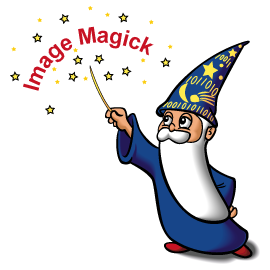
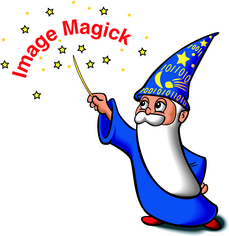
*** empty log message ***

diff --git a/ImageMagick.html b/ImageMagick.html
@@ -12,7 +12,7 @@
 <body bgcolor="#FFFFFF" text="#000000" link="#0085c0" vlink="#800080" alink="#0085c0" >
 <dl>
 <dd>
-<div align="Left"> <a href="www/archives.html"><img src="images/magick.png" alt="Image Magick" border="0" height="270" width="270" align="Right">
+<div align="Left"> <a href="www/archives.html"><img src="images/magick.png" alt="Image Magick" border="0" height="229" width="236" align="Right">
 </a> ImageMagick<sup><font size="-2">TM</font></sup> is a robust collection
 of tools and libraries to read, write, and manipulate an image in many image 
 <a href="www/formats.html">formats</a> (over 68 major formats) including

diff --git a/www/cvs.html b/www/cvs.html
@@ -10,7 +10,7 @@
 </head>
 <body bgcolor="#FFFFFF" text="#000000" link="#0085c0" vlink="#800080" alink="#0085c0" >
 
-<center><img SRC="../images/magick_small.png" alt="" height=133 width=129></center>
+<center><img SRC="../images/magick_small.png" alt="" height=118 width=114></center>
 
 <p>The ImageMagick source is available via anonymous CVS. This is a convenient
 way for developers from around the country or world to download the ImageMagick

diff --git a/www/cd.html b/www/cd.html
@@ -10,7 +10,7 @@
 </head>
 <body bgcolor="#FFFFFF" text="#000000" link="#0085c0" vlink="#800080" alink="#0085c0" >
 
-<center><img SRC="../images/magick_small.png" alt="" width=129 height=133></center>
+<center><img SRC="../images/magick_small.png" alt="" width=114 height=118></center>
 
 <p>ImageMagick, version 5.3.6, source and binary distribution is available
 for a limited time on CD. The CD includes everything that is found at the

diff --git a/www/archives.html b/www/archives.html
@@ -10,7 +10,7 @@
 </head>
 <body text="#000000" bgcolor="#FFFFFF" link="#0085C0" vlink="#800080" alink="#0085C0">
 
-<center><img SRC="../images/magick_small.png" ALT="" height=133 width=129></center>
+<center><img SRC="../images/magick_small.png" ALT="" height=118 width=114></center>
 
 <p>The source distribution of <b>ImageMagick</b> as well as pre-compiled
 binaries are available at any of the sites listed here (unless otherwise

diff --git a/www/color.html b/www/color.html
@@ -10,7 +10,7 @@
 </head>
 <body bgcolor="#FFFFFF" text="#000000" link="#0085c0" vlink="#800080" alink="#0085c0" >
 <center>
-<img src="../images/magick_small.png" alt="" align=bottom width=129 height=133>
+<img src="../images/magick_small.png" alt="" align=bottom width=114 height=118>
 </center>
 <p><hr><p>
 Here are some example color selections to choose from or define your own.

diff --git a/www/quantize.html b/www/quantize.html
@@ -10,7 +10,7 @@
 </head>
 <body bgcolor="#FFFFFF" text="#000000" link="#0085c0" vlink="#800080" alink="#0085c0" >
 
-<center><img SRC="../images/magick_small.png" alt="" width=129 height=133></center>
+<center><img SRC="../images/magick_small.png" alt="" width=114 height=118></center>
 
 <p><br>
 <p>This document describes how <a href="../ImageMagick.html">ImageMagick</a>

diff --git a/www/miff.html b/www/miff.html
@@ -10,7 +10,7 @@
 </head>
 <body bgcolor="#FFFFFF" text="#000000" link="#0085c0" vlink="#800080" alink="#0085c0" >
 
-<center><img SRC="../images/magick_small.png" alt="" width=129 height=133></center>
+<center><img SRC="../images/magick_small.png" alt="" width=114 height=118></center>
 
 <p><br>
 <p><b>Magick Image File Format (MIFF)</b> is a platform-independent format

diff --git a/www/help.html b/www/help.html
@@ -10,7 +10,7 @@
 </head>
 <body bgcolor="#FFFFFF" text="#000000" link="#0085c0" vlink="#800080" alink="#0085c0" >
 
-<center><img SRC="../images/magick_small.png" alt="" width=129 height=133></center>
+<center><img SRC="../images/magick_small.png" alt="" width=114 height=118></center>
 
 <p><br>
 <p>A number of individuals volunteer their time to develop and maintain

diff --git a/www/new.html b/www/new.html
@@ -10,7 +10,7 @@
 </head>
 <body bgcolor="#FFFFFF" text="#000000" link="#0085c0" vlink="#800080" alink="#0085c0" >
 
-<center><img SRC="../images/magick_small.png" alt="" width=129 height=133></center>
+<center><img SRC="../images/magick_small.png" alt="" width=114 height=118></center>
 
 <p><br>
 <p><b>ImageMagick</b> is continually being enhanced. Check this section

diff --git a/www/sponsor.html b/www/sponsor.html
@@ -10,7 +10,7 @@
 </head>
 <body bgcolor="#FFFFFF" text="#000000" link="#0085c0" vlink="#800080" alink="#0085c0" >
 
-<center><img SRC="../images/magick_small.png" alt="" width=129 height=133></center>
+<center><img SRC="../images/magick_small.png" alt="" width=114 height=118></center>
 
 <p>
 <table BORDER=0 WIDTH="100%" >

diff --git a/www/animate.html b/www/animate.html
@@ -22,7 +22,7 @@
 </head>
 <body bgcolor="#FFFFFF" text="#000000" link="#0085c0" vlink="#800080" alink="#0085c0" >
 <center>
-<img SRC="../images/magick_small.png" alt="" width=129 height=133>
+<img SRC="../images/magick_small.png" alt="" width=114 height=118>
 </center>
      <table BORDER=0 WIDTH="100%"> 
      <tr> 

diff --git a/www/composite.html b/www/composite.html
@@ -22,7 +22,7 @@
 </head>
 <body bgcolor="#FFFFFF" text="#000000" link="#0085c0" vlink="#800080" alink="#0085c0" >
 <center>
-<img SRC="../images/magick_small.png" alt="" width=129 height=133>
+<img SRC="../images/magick_small.png" alt="" width=114 height=118>
 </center>
      <table BORDER=0 WIDTH="100%"> 
      <tr> 
